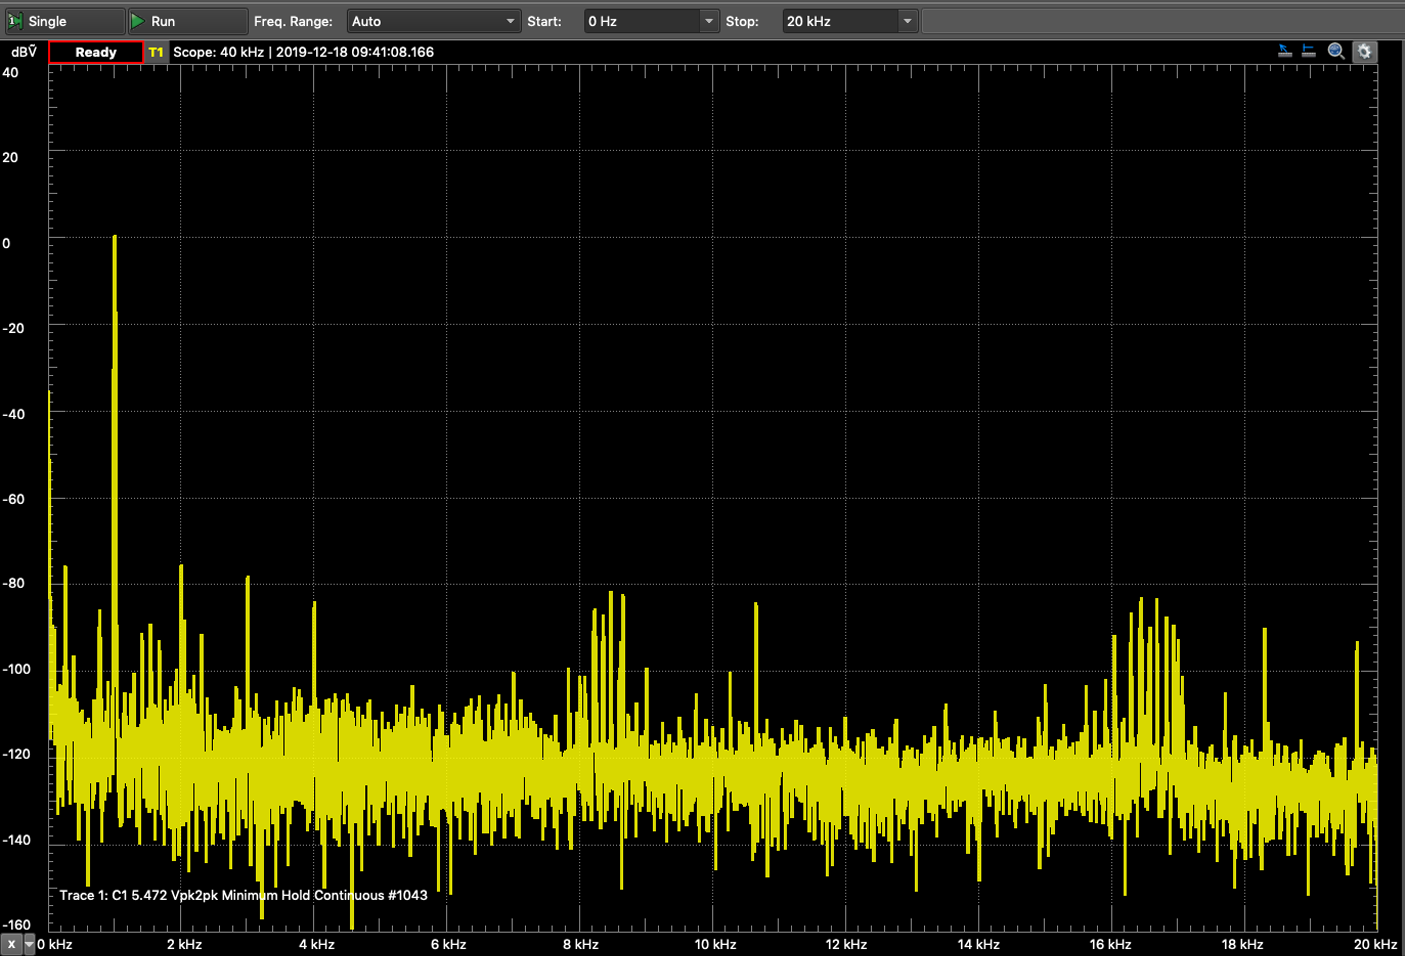
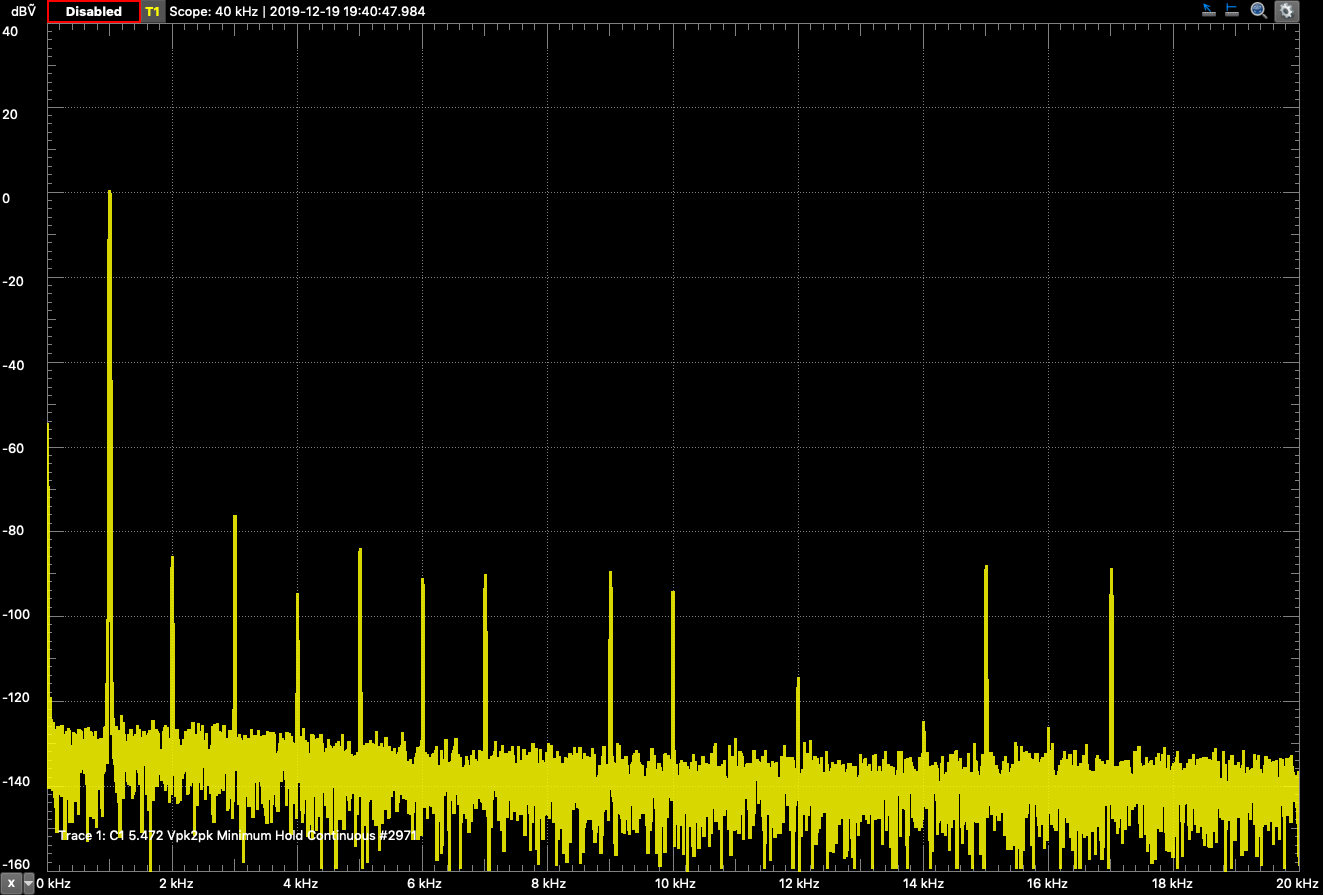
s

Changed region(s): [[0.0, 0.0, 1.0, 1.0], [0.0, 0.1562, 0.0929, 0.3438]]

diff --git a/sections/5_4_0_Audio.tex b/sections/5_4_0_Audio.tex
@@ -36,7 +36,7 @@ Um jedoch die Messung zu verifizieren wird eine zweite Messung mit dem AD2 \ref{
 
 \begin{figure} [H]
 \begin{center}
- \includegraphics[width=\textwidth]{../graphics/THD_LineINOUT_Kopie.png}
+ \includegraphics[width=\textwidth]{../graphics/THD_LineINOUT.png}
  \caption{Die gemessene Total Harmonic Distortion mit dem Analog Discovery 2 von Digilent}
 \label{fig:thdAD2}
 \end{center}
@@ -45,10 +45,12 @@ Um jedoch die Messung zu verifizieren wird eine zweite Messung mit dem AD2 \ref{
 \subsubsection{ENOB/SINAD}
 \label{subsubsec:ENOB/SINAD}
 
-Die "Effective number of bits", oder kurz ENOB genannt, gibt an wieviel Bits an Auflösung eines AD-Wandlers effektiv nutzbar sind. Durch Rauschen verschiedener Art, sei es von der Quantisierung oder von Widerständen, hat der Wandler-Kanal einen gewissen Grundpegel der nicht für Information genutzt werden kann. Entsprechend sinkt der Amplitudenbereich in dem Information eines Signals übertragen werden kann. Sozusagen die effektive Anzahl nutzbarer Bits (wie es der Name schon sagt).
+Die \glqq Effective number of bits\grqq, oder kurz ENOB genannt, gibt an wieviel Bits an Auflösung eines AD-Wandlers effektiv nutzbar sind. Durch Rauschen verschiedener Art, sei es von der Quantisierung oder von Widerständen, hat der Wandler-Kanal einen gewissen Grundpegel der nicht für Information genutzt werden kann. Entsprechend sinkt der Amplitudenbereich in dem Information eines Signals übertragen werden kann. Sozusagen die effektive Anzahl nutzbarer Bits (wie es der Name schon sagt).
 
-Der SINAD oder auch "Signal to noise and distortion" ist das Leistungs-Verhältnis  von Rauschen und den Harmonischen Verzerrungen zum Signal (wie der SNR, aber mit Distortion). Er steht auch in direktem Verhältnis zum ENOB:
+Der SINAD, oder auch \glqq Signal-to-interference ratio including noise and distortion\grqq , ist das Leistungs-Verhältnis  von Rauschen und den harmonischen Verzerrungen zum Signal (wie der SNR, aber mit Distortion). Er steht auch in direktem Verhältnis zum ENOB:
 
 \begin{equation}
 ENOB=\frac{SINAD-1.76dB}{6.02dB}
 \end{equation} 
+
+Beide Werte wurden ebenfalls mit dem AD2 gemessen. Beim SINAD ergab das einen Wert von 69.367dB und für den ENOB 11.23. Gerade für den ENOB ist dieser wert enttäuschend für einen 16 Bit ADC. Ein Grund dafür könnte die Messkette sein, da von Eingang zu Ausgang gemessen wurde. Sprich das Signal wurde zweimal gewandelt und erfährt dementsprechend auch mehr Rauschen. 
